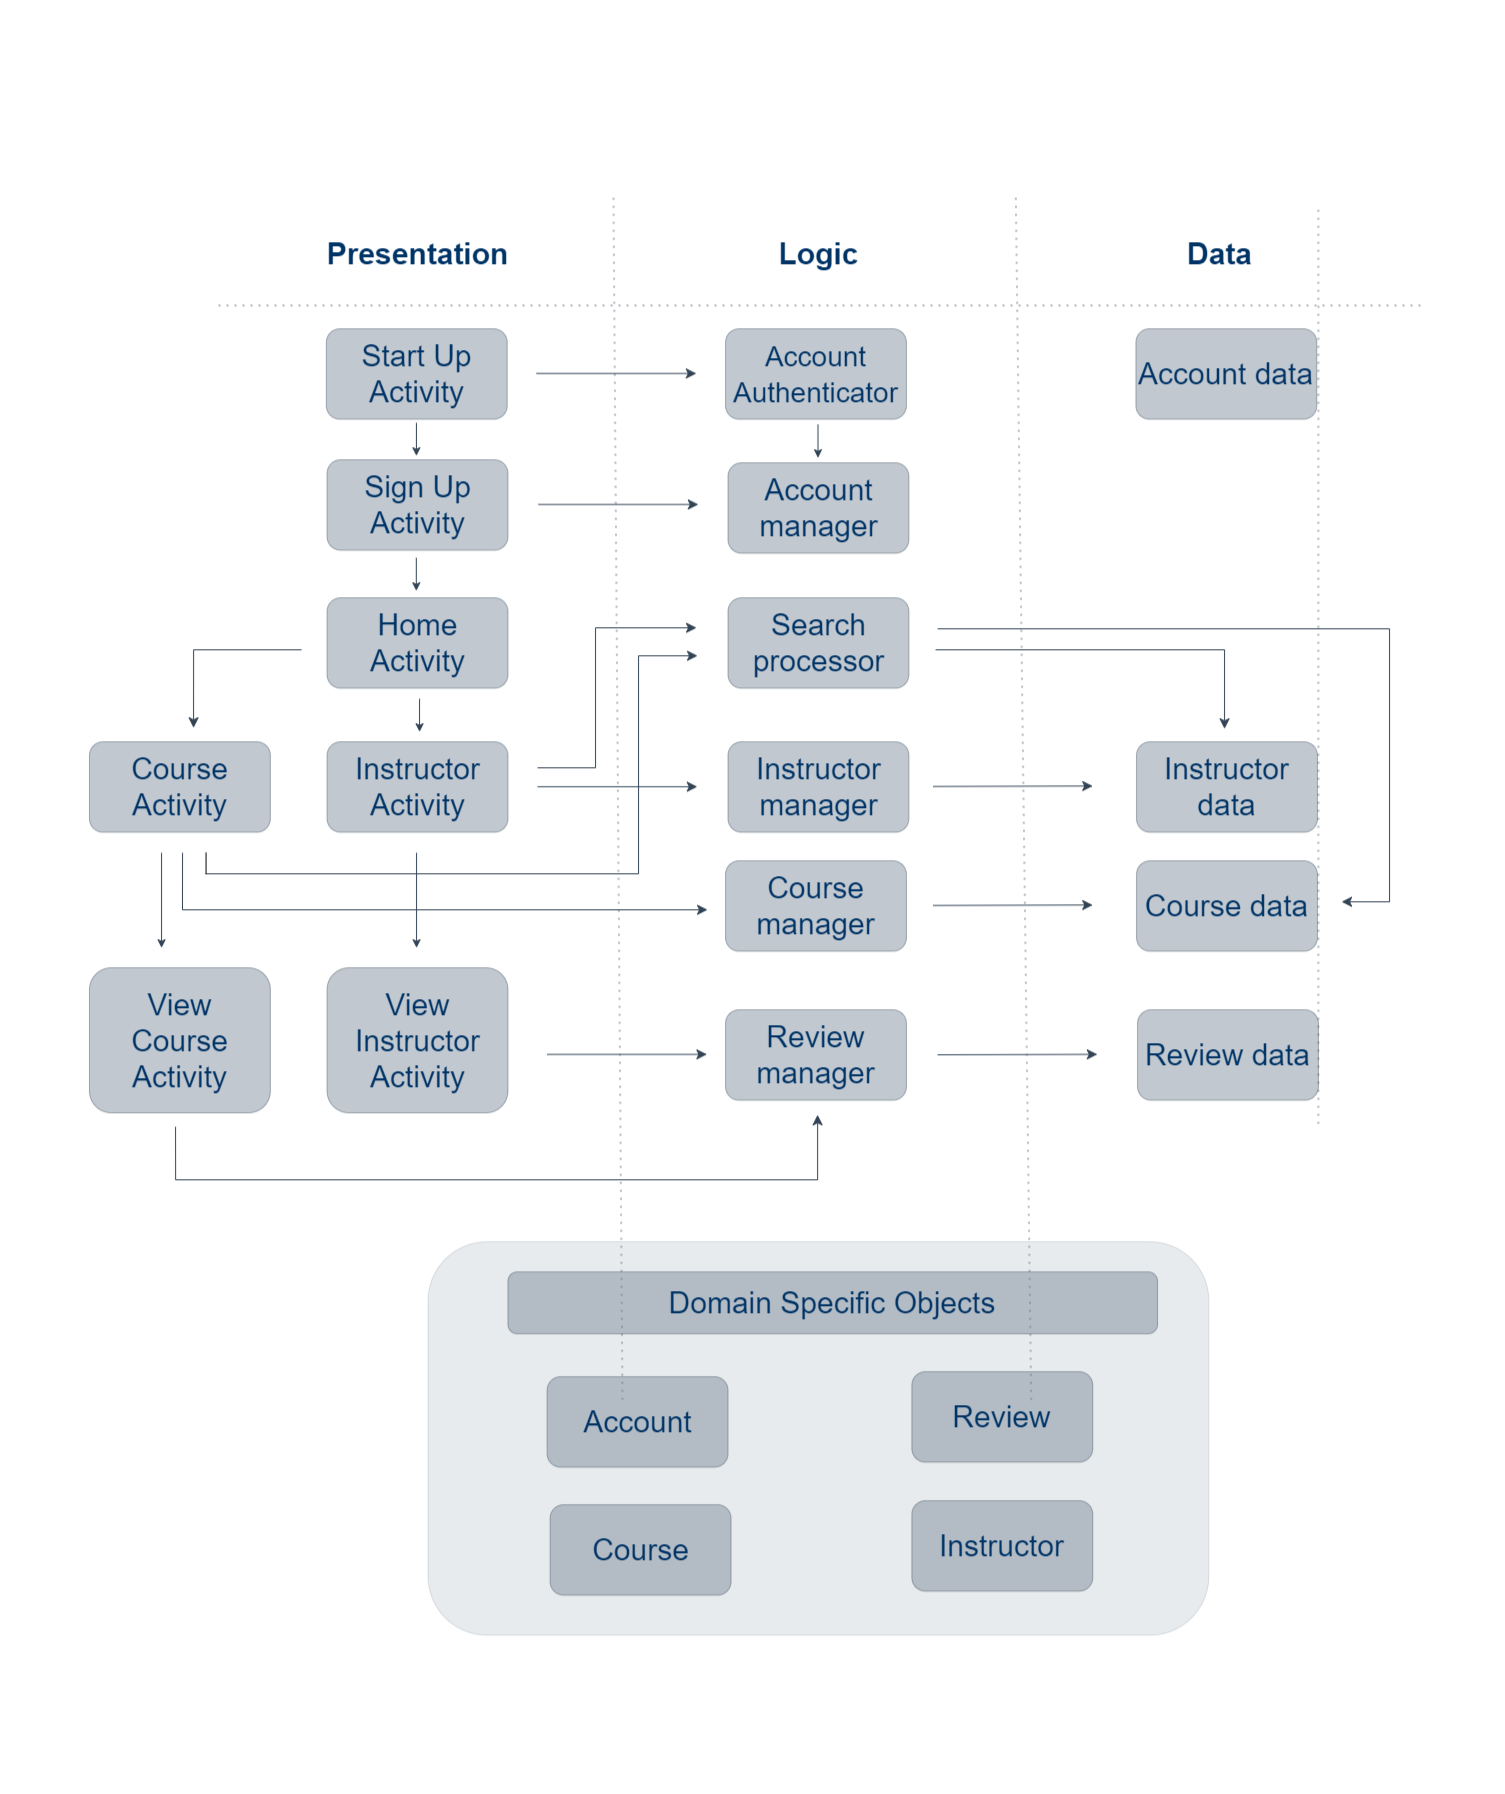
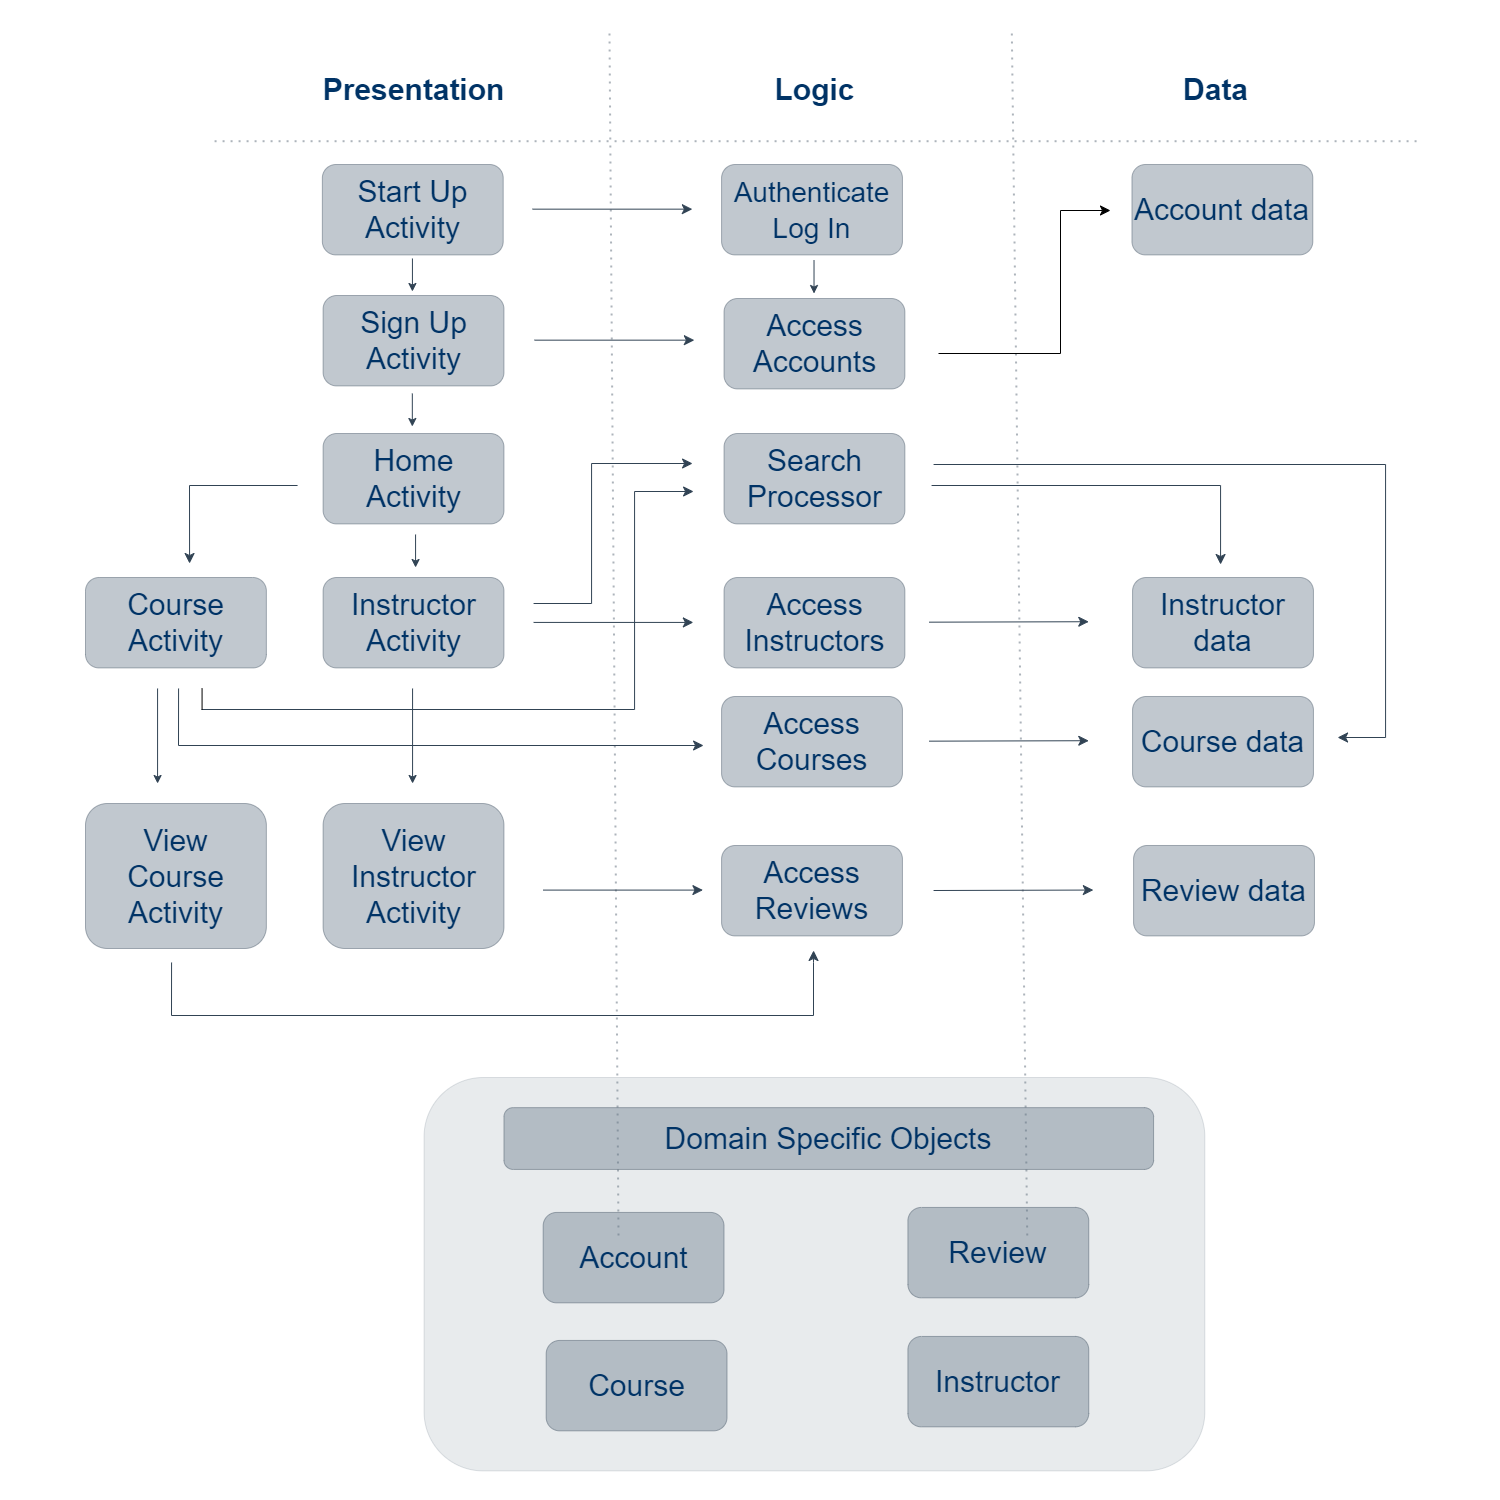
Update 3 files
- /docs/Architecture1.png
- /docs/Architecture.md
- /docs/Iteration1.md

diff --git a/docs/Architecture.md b/docs/Architecture.md
@@ -6,6 +6,68 @@ An overview of our classes and its locations.
 
 ![Architecture](Architecture1.png)
 
+#### Presentation
+
+StartUpActivity
+* First page of application 
+
+NOTE: We are currently forcing the users to log in before proceeding. In the next iteration, we will allow users to continue as a guest.
+
+SignUpActivity
+* Page where new users can create an account 
+
+HomeActivity
+* Page directing user to either searching a course or an instructor
+
+CourseActivity
+* Page where users can search through a list of courses
+
+InstructorActivity
+* Page where users can search through a list of instructors
+
+ViewCourseActivity
+* Resulting page after the user clicks a particular course from CourseActivity
+* Contains reviews about the specified course
+
+ViewInstructorActivity
+* Resulting page after the user clicks on a particular instructor from InstructorActivity
+* Contains reviews about the specified instructor
+
+#### Logic
+
+AuthenticatorLogin
+* Speaks to the AccessAccounts class to check if user's log-in input is valid 
+
+AccessAccounts
+* Handles get/set/add/delete requests directed to the AccountsPersistenceStub
+
+SearchProcessor
+* Handles search queries to see which course/reviews meet the specified requirements
+* Separated for future iterations where we plan to add filter options 
+
+AccessInstructors
+* Handles get/set/add/delete requests directed to the InstructorPersistenceStub
+
+AccessCourses
+* Handles get/set/add/delete requests directed to the CoursePersistenceStub
+
+AccessReviews
+* Handles get/set/add/delete requests directed to the ReviewPersistenceStub
+
+#### Data
+
+AccountPersistenceStub
+* Stub used to store Account objects
+
+InstructorPersistenceStub
+* Stub used to store Instructor objects
+
+CoursePersistenceStub
+* Stub used to store Course objects
+
+ReviewPersistenceStub
+* Stub used to store Review objects
+
 ### Iteration 2 Diagram
 
 ### Iteration 3 Diagram

diff --git a/docs/Iteration1.md b/docs/Iteration1.md
@@ -1,0 +1,51 @@
+# Iteration 1 Summary
+
+## **Progress**
+
+### Completed 
+* Account Management 
+  * Registration
+  * Secure Log-in
+  * Secure Log-out
+  * Delete Account 
+    * NOTE: We implemented the function but not the GUI component for this 
+* Course and Instructor Discover
+  * Find an instructor 
+  * Find a course
+  * View a course
+* Review Management
+  * Write a Course Review
+  * Edit a Course Review
+  * Delete a Course Review
+
+### In Development
+
+* Course and Instructor Discovery
+  * View an instructor
+* Review Management
+  * Write a Instructor Review
+  * Edit an Instructor Review
+  * Delete an Instructor Review
+
+### Not Started
+
+* Account Management
+  * Personalize Profiles
+
+Note: This user story will be pushed back to Iteration 2.
+
+## **Architecture Document** 
+
+As of the end of Iteration 1, our project's architecture design.
+
+This is our project's [architecture design](https://code.cs.umanitoba.ca/comp3350-winter2024/KeyValuePairs-a02-8/-/blob/main/docs/Architecture.md?ref_type=heads) as of the end of Iteration 1.
+
+## **Iteration 1 Retrospective** 
+
+
+## **Iteration 2 Objectives** 
+
+
+
+
+
